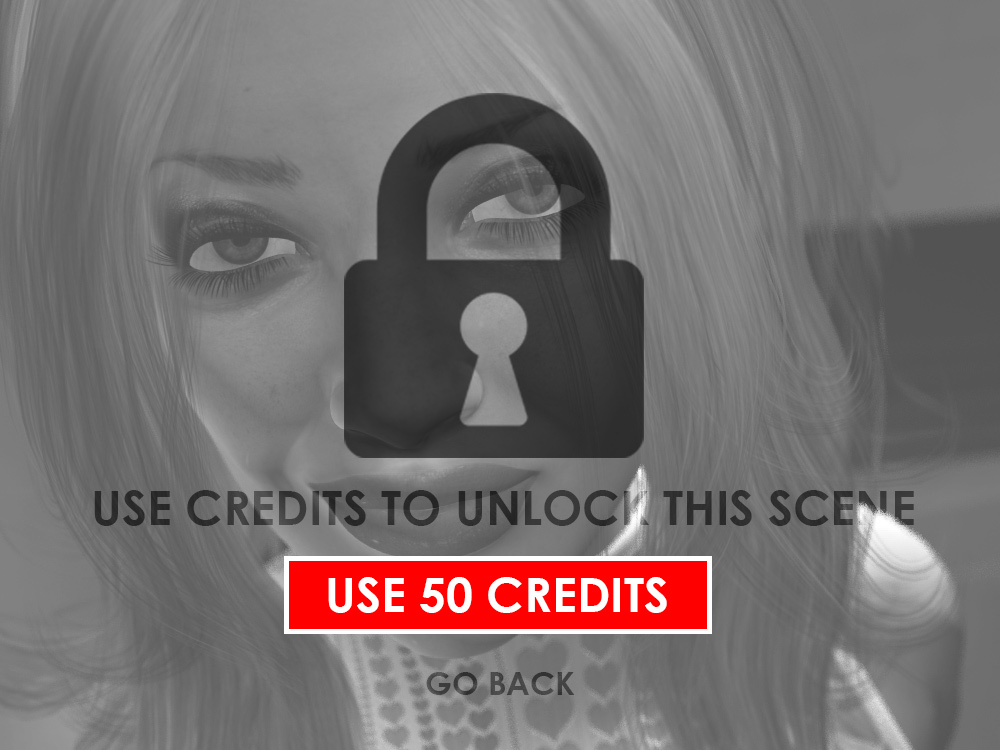
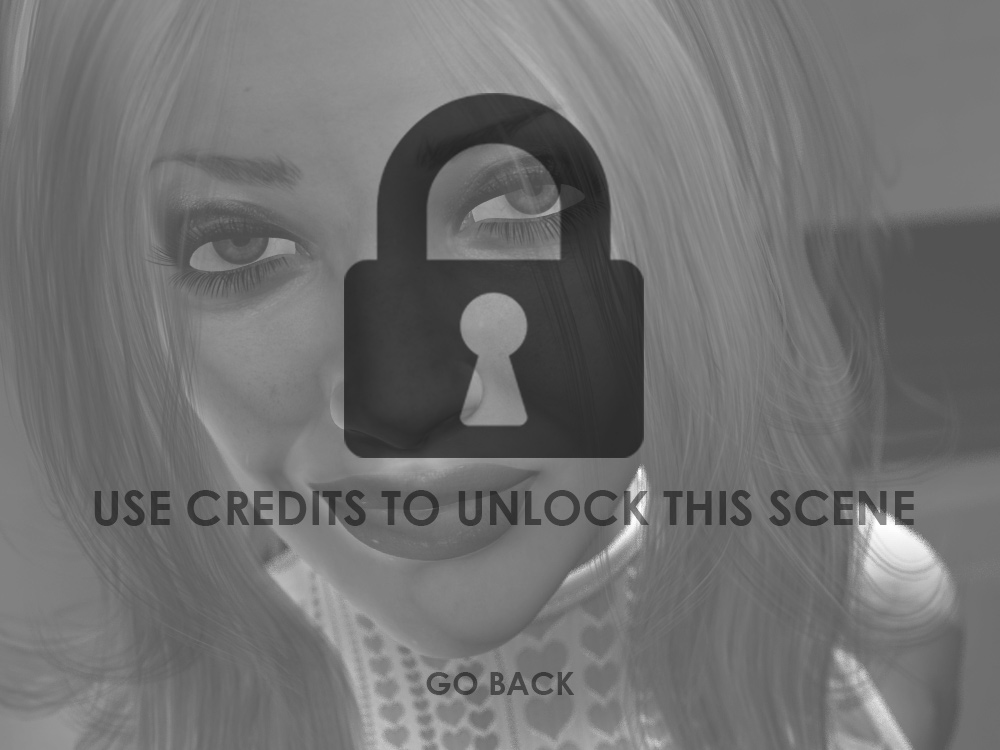
Updated pay screens around mediajodie60_locked.html and added use credit buttons to ch1 & ch2

Changed region(s): [[0.279, 0.736, 0.713, 0.8587], [0.837, 0.6747, 0.899, 0.7053], [0.62, 0.644, 0.651, 0.7053]]

diff --git a/static/chapter2/game/mediajodie60_locked.html b/static/chapter2/game/mediajodie60_locked.html
@@ -49,7 +49,7 @@
       <table width="100" border="0" align="center" cellpadding="3">
 
       <tr>
-<td width="68" align="center" bgcolor="#CCCCCC"><script src="nataliascorecheck.js">
+<td width="68" align="center" bgcolor="#CCCCCC"><script src="jodiescorecheck.js">
 
 </script>
           </td>
@@ -63,7 +63,7 @@
 
           <tr>
 
-            <td height="250"><img src="buttonsetc/inv_natalia_bra.jpg" width="125" height="200" alt=""/></td>
+            <td height="250"><img src="buttonsetc/inv_jodie1.jpg" width="125" height="200" alt=""/></td>
           </tr>
     </table>
     
@@ -76,11 +76,11 @@
 <!--inventory end-->
 
     <td width="1000" class="relativePosition"><img src="images/mediajodie60_locked.jpg" alt="" usemap="#Map" id="buybuttonImage"/>
-   <img src="images/unlock/use_10.jpg" id="buybutton" onclick="emitCheck('VVJ5mVW6zM0f3fygZzHB|20')">
+   <img src="buttonsetc/use_50.jpg" id="buybutton" onclick="emitCheck('VVJ5mVW6zM0f3fygZzHB|50')">
       <map name="Map" id="Map">
 
        
-		<area shape="rect" coords="380,650,620,720" href="mediabridgette11.html" title="Go back" />
+		<area shape="rect" coords="380,650,620,720" href="mediajodie59.html" title="Go back" />
 		
 	</map>
    
@@ -88,14 +88,14 @@
        <td width="1000" class="relativePosition">
        <img src="images/mediajodie60_unlocked.jpg" alt="" usemap="#Map"  id="availableButtonImage"/>
 
-      <map name="Map" id="Map">
+      <map name="Map_play" id="Map_play">
 
        
-		<area shape="rect" coords="380,650,620,720" href="mediabridgette11.html" title="Go back" />
+		<area shape="rect" coords="380,650,620,720" href="mediajodie59.html" title="Go back" />
 		 
 	</map>
 
-    <a href="jodiebonus1.html" ><img src="images/unlock/unlocked_button.jpg" id="availableButton"> </a>
+    <a href="jodiebonus1.html" ><img src="buttonsetc/play_scene.jpg" id="availableButton"> </a>
       </td>
     
   
